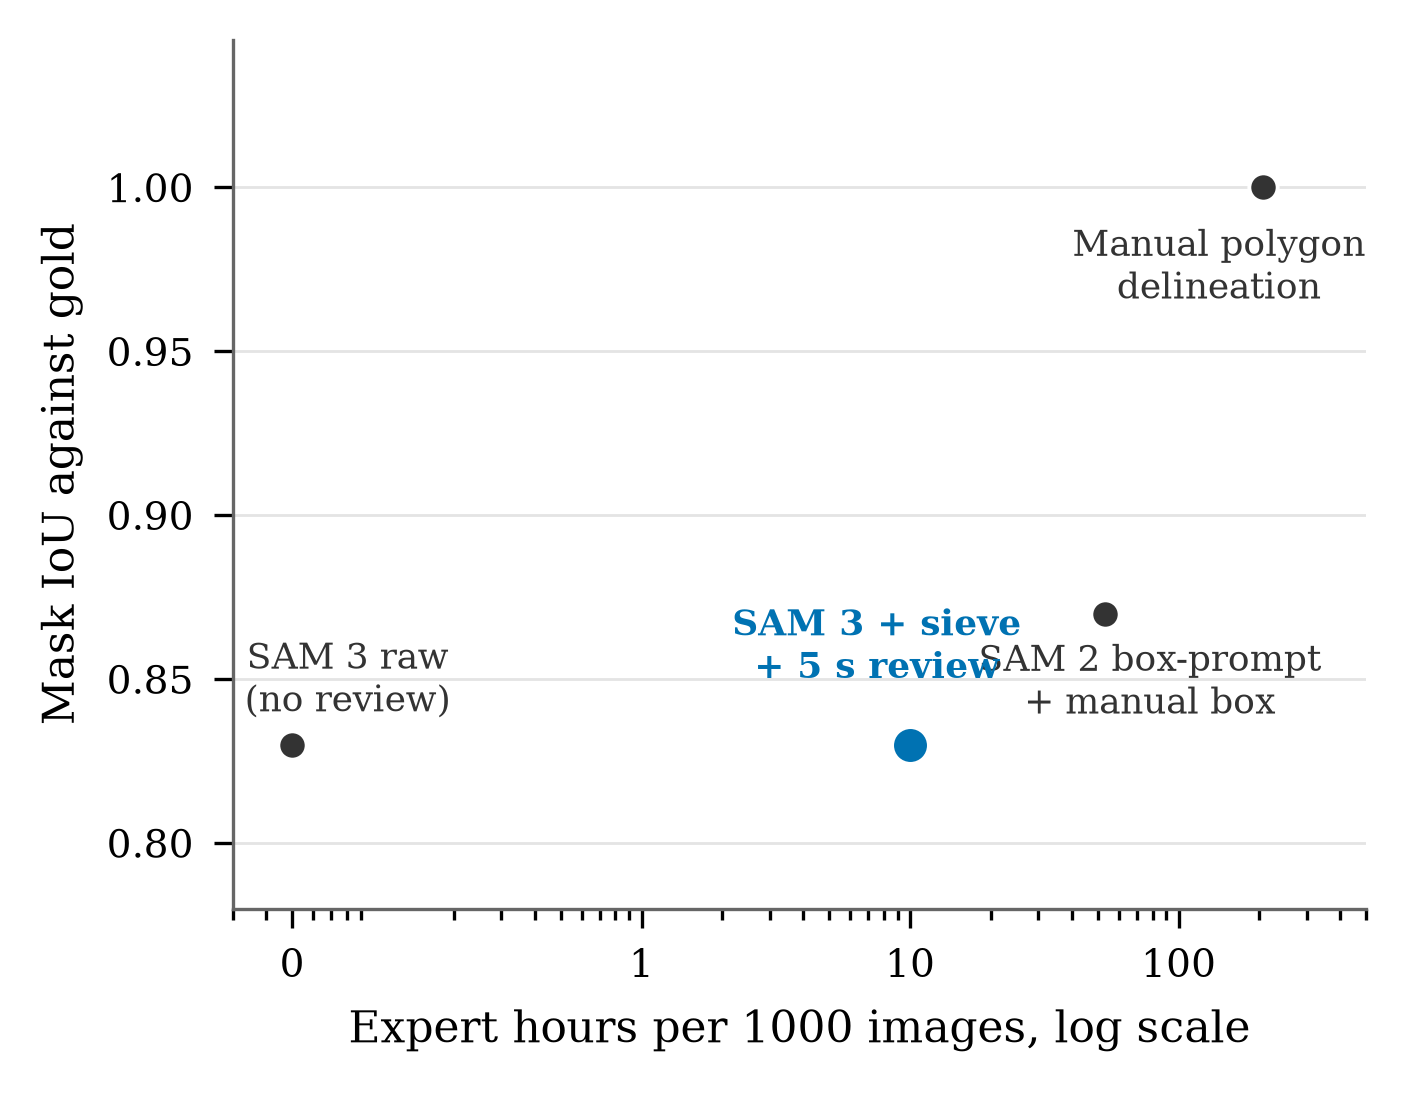
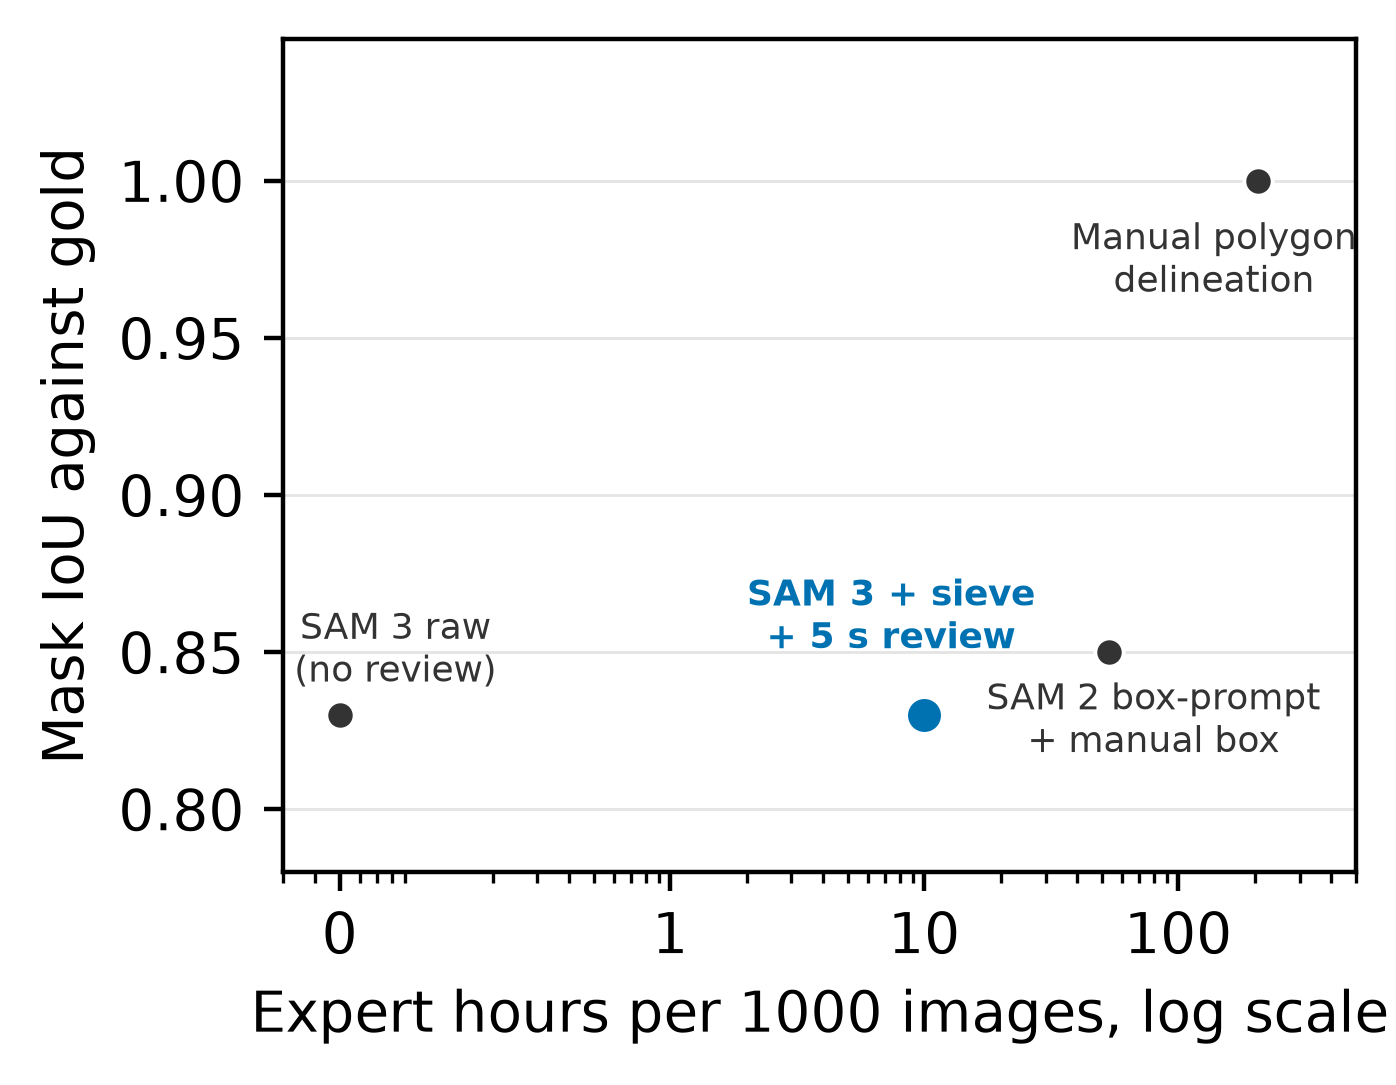
Zero-shot penguin monitoring: benchmark, sieve and evaluation protocol

Changed region(s): [[0.0308, 0.0304, 1.0, 0.9733]]

diff --git a/penguins/soft_logit_area_stratify.py b/penguins/soft_logit_area_stratify.py
@@ -1,0 +1,186 @@
+#!/usr/bin/env python3
+"""Why the soft-logit acceptance test passes on Boulders and fails on SANParks.
+
+WHY
+
+`soft_logit_verify.py` scores each detection's probability map against that
+detection's own binary mask, downsampled to the map's native 288x288. Boulders
+clears the 0.85 bar at 0.93; SANParks sits at 0.55 with a 0.56 median and only
+4 to 6 percent of pairs below 0.1. That profile is not the misfiling signature,
+which was 0.009 with 95 percent of pairs below 0.1. Two candidates remain.
+
+  resolution   SANParks birds are small and dense, so at 288x288 a bird covers
+               a few pixels and a one-pixel boundary disagreement halves its
+               IoU. The maps are correctly paired and the 0.85 bar is simply
+               wrong for objects this small.
+  geometry     a second padding or letterbox defect, in which case large
+               objects are depressed too and the FAIL stands as written.
+
+The discriminator is per-pair IoU against the object's area in the map grid,
+computed for both corpora. Resolution predicts IoU rising with area on both,
+with SANParks' large objects recovering to about 0.9 and Boulders' rare small
+objects scoring badly. Geometry predicts SANParks staying flat and low across
+every area bin. A centroid offset in map pixels is reported alongside, since a
+padding error shifts masks rather than eroding them.
+
+This settles a diagnosis, not the blocker. Soft-average fusion stays unreported
+either way until the sweep runs on maps that pass a bar chosen for the object
+sizes in the corpus.
+
+Self-reports a bounded block and writes a sentinel. CPU only.
+"""
+from __future__ import annotations
+import json, sys, time
+from pathlib import Path
+
+import cv2
+import numpy as np
+import pycocotools.mask as mu
+
+RUNS = Path.home() / "bench_any" / "runs"
+R1 = RUNS / "p5_r1_v2"
+OUT_TXT = RUNS / "obj2_counting" / "soft_logit_area_stratify.txt"
+OUT_JSON = RUNS / "obj2_counting" / "soft_logit_area_stratify.json"
+DONE = RUNS / "obj2_counting" / "_soft_logit_area_stratify_done"
+
+CORPORA = {"boulders": "Boulders", "sanparks": "SANParks"}
+PROMPTS = ["a_penguin", "penguin", "african_penguin"]
+
+# area of the downsampled binary mask, in map pixels
+BINS = [0, 4, 16, 64, 256, 1024, 10 ** 9]
+BIN_LABELS = ["<4", "4-16", "16-64", "64-256", "256-1024", ">=1024"]
+
+
+def _tag(prompt):
+    return "" if prompt == "a_penguin" else "_" + prompt
+
+
+def _paths(sub, prompt):
+    t = _tag(prompt)
+    return (R1 / sub / f"{sub}_sam3_raw{t}.json",
+            R1 / sub / f"{sub}_sam3_soft{t}_v2.json",
+            R1 / sub / f"{sub}_soft{t}_v2_npys")
+
+
+def _centroid(m):
+    ys, xs = np.nonzero(m)
+    return (float(xs.mean()), float(ys.mean())) if len(xs) else (np.nan, np.nan)
+
+
+def pairs(sub, prompt):
+    """One record per detection: IoU at map resolution, areas, centroid offset."""
+    raw_p, soft_p, npy_dir = _paths(sub, prompt)
+    if not (raw_p.exists() and soft_p.exists() and npy_dir.exists()):
+        return []
+    raw = json.loads(raw_p.read_text())
+    soft = json.loads(soft_p.read_text())
+    out = []
+    for fn in sorted(raw):
+        if len(raw[fn]) != len(soft.get(fn, [])):
+            continue
+        for k, det in enumerate(raw[fn]):
+            npy_path = npy_dir / soft[fn][k]["prob_npy"]
+            if not npy_path.exists():
+                continue
+            pr = np.load(npy_path).astype(np.float32)
+            full = mu.decode(det["rle"]).astype(np.uint8)
+            small = cv2.resize(full, (pr.shape[1], pr.shape[0]),
+                              interpolation=cv2.INTER_NEAREST).astype(bool)
+            m_soft = pr >= 0.5
+            union = (small | m_soft).sum()
+            cb, cs = _centroid(small), _centroid(m_soft)
+            out.append({
+                "iou": float((small & m_soft).sum() / union) if union else 0.0,
+                "area_map": int(small.sum()),
+                "area_native": int(full.sum()),
+                "soft_area_map": int(m_soft.sum()),
+                "img_px": int(full.shape[0] * full.shape[1]),
+                "dx": cs[0] - cb[0], "dy": cs[1] - cb[1],
+            })
+    return out
+
+
+def summarise(recs):
+    a = np.array([r["iou"] for r in recs])
+    am = np.array([r["area_map"] for r in recs])
+    idx = np.digitize(am, BINS[1:-1], right=False)
+    rows = []
+    for b, label in enumerate(BIN_LABELS):
+        sel = idx == b
+        if not sel.any():
+            rows.append({"bin": label, "n": 0})
+            continue
+        rows.append({"bin": label, "n": int(sel.sum()),
+                     "mean_iou": round(float(a[sel].mean()), 3),
+                     "median_iou": round(float(np.median(a[sel])), 3),
+                     "median_area_native": int(np.median([r["area_native"] for r, s in zip(recs, sel) if s]))})
+    big = am >= 256
+    dx = np.array([r["dx"] for r in recs]); dy = np.array([r["dy"] for r in recs])
+    return {"n": len(recs), "mean_iou": round(float(a.mean()), 3),
+            "bins": rows,
+            "n_big": int(big.sum()),
+            "mean_iou_big": round(float(a[big].mean()), 3) if big.any() else None,
+            "median_area_map": int(np.median(am)),
+            "median_offset_px": [round(float(np.nanmedian(dx)), 2), round(float(np.nanmedian(dy)), 2)],
+            "median_abs_offset_px": [round(float(np.nanmedian(np.abs(dx))), 2),
+                                     round(float(np.nanmedian(np.abs(dy))), 2)]}
+
+
+def main():
+    t0 = time.time()
+    per_corpus, per_prompt = {}, {}
+    for sub, label in CORPORA.items():
+        recs = []
+        for prompt in PROMPTS:
+            p = pairs(sub, prompt)
+            if p:
+                per_prompt[f"{label}/{prompt}"] = summarise(p)
+            recs += p
+        if recs:
+            per_corpus[label] = summarise(recs)
+
+    L = ["\n## 20e. Soft-logit self-IoU against object size in the map grid (2026-07-30)\n\n",
+         "Each detection's probability map is thresholded at 0.5 and scored against its own "
+         "binary mask downsampled to the map's 288x288, which is what the acceptance test does. "
+         "Pairs are pooled over the three prompts and binned by the downsampled mask's area in "
+         "map pixels.\n\n",
+         "| corpus | bin (map px) | pairs | mean IoU | median IoU | median native area (px) |\n",
+         "|---|---|---|---|---|---|\n"]
+    for label, s in per_corpus.items():
+        for r in s["bins"]:
+            if not r["n"]:
+                continue
+            L.append(f"| {label} | {r['bin']} | {r['n']} | {r['mean_iou']} | {r['median_iou']} | "
+                     f"{r['median_area_native']} |\n")
+    L.append("\n| corpus | pairs | mean IoU | median area (map px) | pairs >=256 map px | "
+             "mean IoU there | median centroid offset (px) |\n|---|---|---|---|---|---|---|\n")
+    for label, s in per_corpus.items():
+        L.append(f"| {label} | {s['n']} | {s['mean_iou']} | {s['median_area_map']} | {s['n_big']} | "
+                 f"{s['mean_iou_big']} | {s['median_offset_px'][0]}, {s['median_offset_px'][1]} |\n")
+
+    b, sp = per_corpus.get("Boulders"), per_corpus.get("SANParks")
+    verdict = "INCONCLUSIVE"
+    if b and sp:
+        big_ok = sp["mean_iou_big"] is not None and sp["mean_iou_big"] >= 0.85
+        shifted = max(abs(sp["median_offset_px"][0]), abs(sp["median_offset_px"][1])) > 1.0
+        if big_ok and not shifted:
+            verdict = "RESOLUTION"
+        elif not big_ok and sp["n_big"] >= 30:
+            verdict = "GEOMETRY"
+    L.append(f"\nVerdict: {verdict}. RESOLUTION means the maps are paired correctly and the flat "
+             "0.85 bar is wrong for small objects; GEOMETRY means a second defect depresses large "
+             "objects too and the FAIL stands as written. Either way no soft-average number is "
+             "reportable until the sweep runs.\n")
+
+    text = "".join(L)
+    OUT_TXT.write_text(text)
+    OUT_JSON.write_text(json.dumps({"per_corpus": per_corpus, "per_prompt": per_prompt,
+                                    "verdict": verdict, "bins": BIN_LABELS}, indent=1))
+    DONE.write_text(verdict)
+    print(text, file=sys.stderr)
+    print(f"[area-stratify] {time.time()-t0:.1f}s -> {OUT_TXT}", file=sys.stderr)
+    return 0
+
+
+if __name__ == "__main__":
+    raise SystemExit(main())

diff --git a/penguins/p5_figures.py b/penguins/p5_figures.py
@@ -114,7 +114,7 @@ def fig_cost_quality():
                "SAM 3 raw\n(no review)",
                "SAM 3 + sieve\n+ 5 s review"]
     hours = [206.7, 53.3, 0.05, 10.0]   # 0 h plotted at 0.05 for the log axis
-    iou = [1.00, 0.87, 0.83, 0.83]
+    iou = [1.00, 0.85, 0.83, 0.83]
     proposed = [False, False, False, True]
 
     fig, ax = plt.subplots(figsize=(3.4, 2.6))
